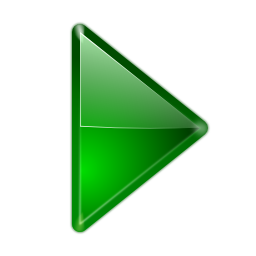
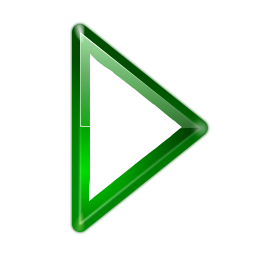
better back forward appearance

Changed region(s): [[0.3438, 0.2188, 0.7188, 0.7812]]

diff --git a/java/TopPanel.java b/java/TopPanel.java
@@ -39,7 +39,7 @@ public class TopPanel extends JPanel {
 		super(new GridBagLayout());
 
 		GridBagConstraints c = new GridBagConstraints();
-		this.setBackground(Color.white);
+		this.setBackground(Color.WHITE);
 
 		ImageIcon img;
 		Image pict;
@@ -55,9 +55,9 @@ public class TopPanel extends JPanel {
 		
 		buttonBack = new JButton(img);
 		buttonBack.setBorder(BorderFactory.createEmptyBorder());
-		buttonBack.setContentAreaFilled(false);
 		buttonBack.setPreferredSize(new Dimension(23, 23));
-		
+		buttonBack.setFocusPainted(false);
+
 		buttonBack.addActionListener(new ActionListener(){  
 			public void actionPerformed(ActionEvent e){  
 				historyBack();
@@ -77,9 +77,9 @@ public class TopPanel extends JPanel {
 
 		buttonForward = new JButton(img);
 		buttonForward.setBorder(BorderFactory.createEmptyBorder());
-		buttonForward.setContentAreaFilled(false);
 		buttonForward.setPreferredSize(new Dimension(23, 23));
-	
+		buttonForward.setFocusPainted(false);
+
 		buttonForward.addActionListener(new ActionListener(){
 			public void actionPerformed(ActionEvent e){
 				historyForward();
